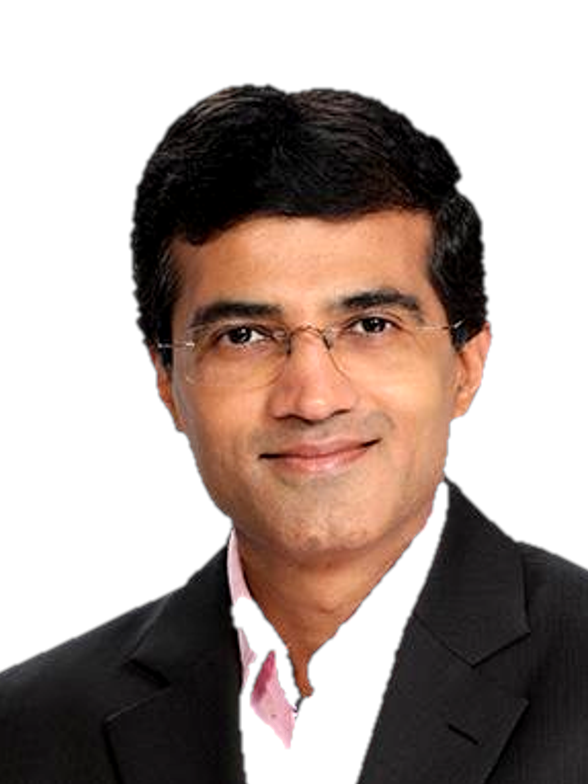
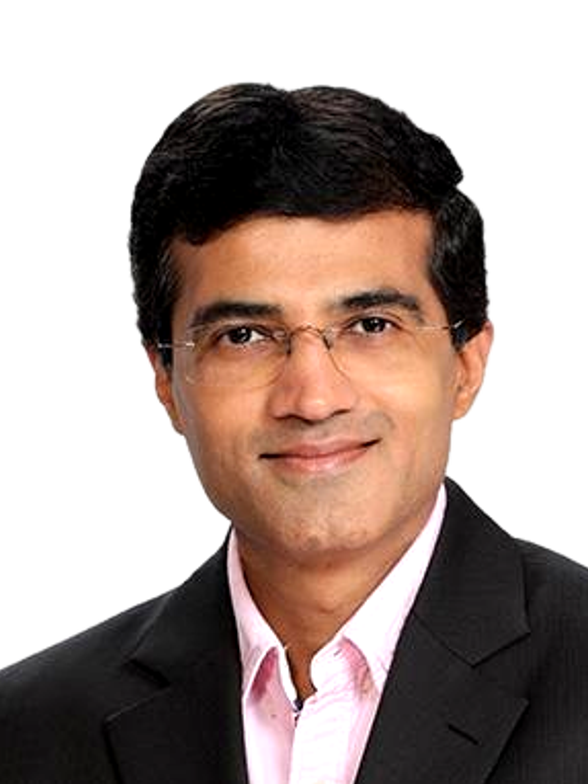
Cut Dr. Jhunjhunwala and Deepak Chitnis out with a subject mask, not a colour key
The key read the white stripes of Dr. Jhunjhunwala's shirt and Mr.
Chitnis's pale collar as studio ground, so the card's blue showed through
both, and roughened Dr. Jhunjhunwala's hair. macOS Vision's foreground
mask keeps the clothes whole and the hair soft.

diff --git a/src/content/home.ts b/src/content/home.ts
@@ -546,10 +546,13 @@ export const mentorsIntro = {
  *
  * The files in `public/images/mentors/` are cut out and set on the card's
  * own 588 × 784 canvas so that every mentor card is the team card: the
- * subject keyed from a plain studio ground where there was one, and cut
- * with macOS Vision's subject mask where there was not (Virendra
- * Somwanshi's wood-panelled wall; a hand-traced outline there left the
- * jaw and hair angular), the head at half the
+ * subject cut with macOS Vision's subject mask (Ashok Jhunjhunwala, Deepak
+ * Chitnis, Virendra Somwanshi) — a colour key read Dr. Jhunjhunwala's white
+ * shirt stripes and Mr. Chitnis's pale collar as ground, and a hand-traced
+ * outline left Mr. Somwanshi's jaw angular — or keyed from a plain studio
+ * ground where that was clean, or the client's own cut-out (Bony Niranjan
+ * Dalal); where a photograph stops short of the card, its clothes are
+ * carried out to the edge along the fall of the shoulder; the head at half the
  * card's height with the eyes at 37.5% — the framing of the strip above —
  * and the shoulders running off the foot of the card. Levels are set from
  * the photograph and the face brought to one brightness across the set.
